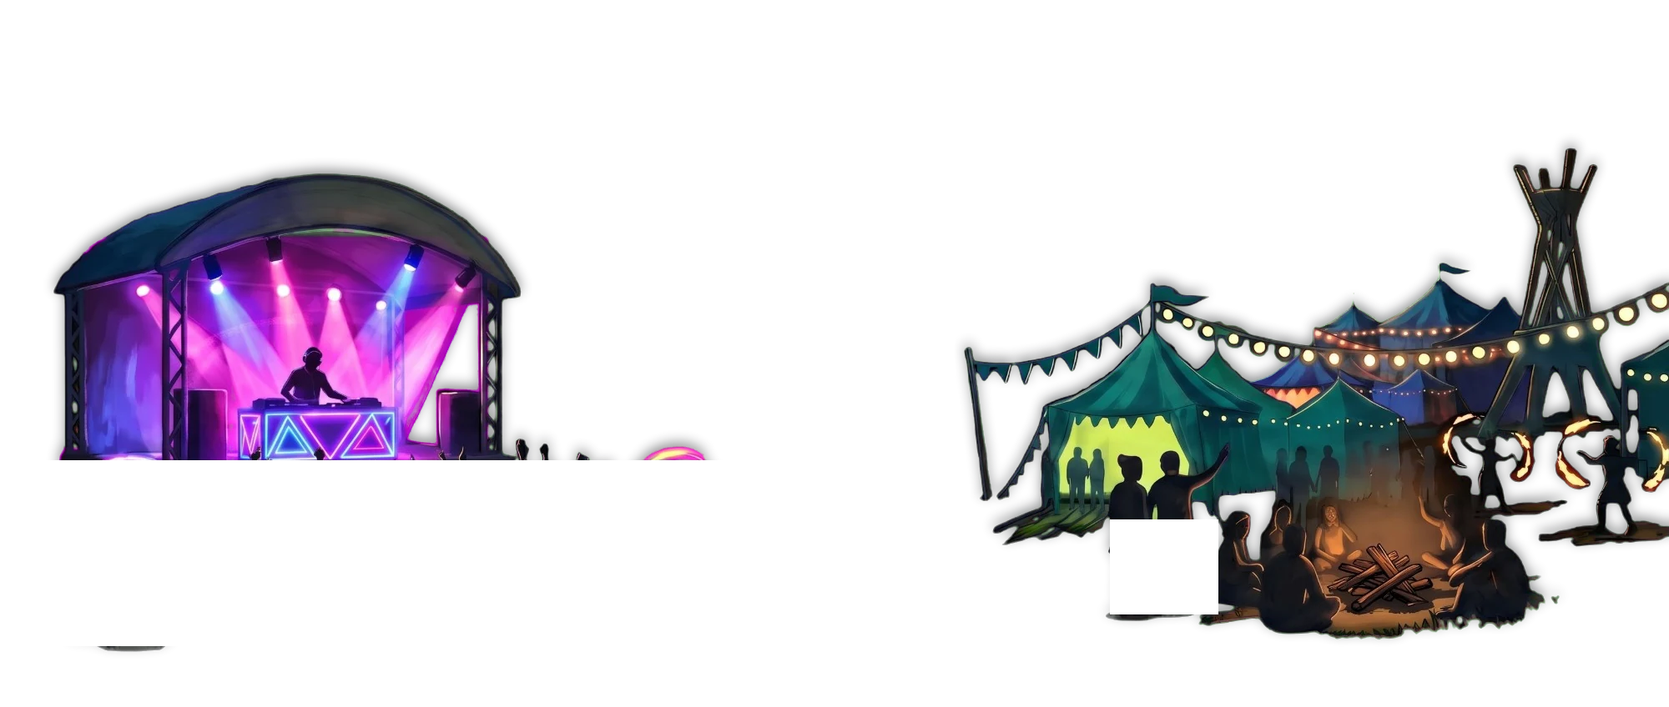
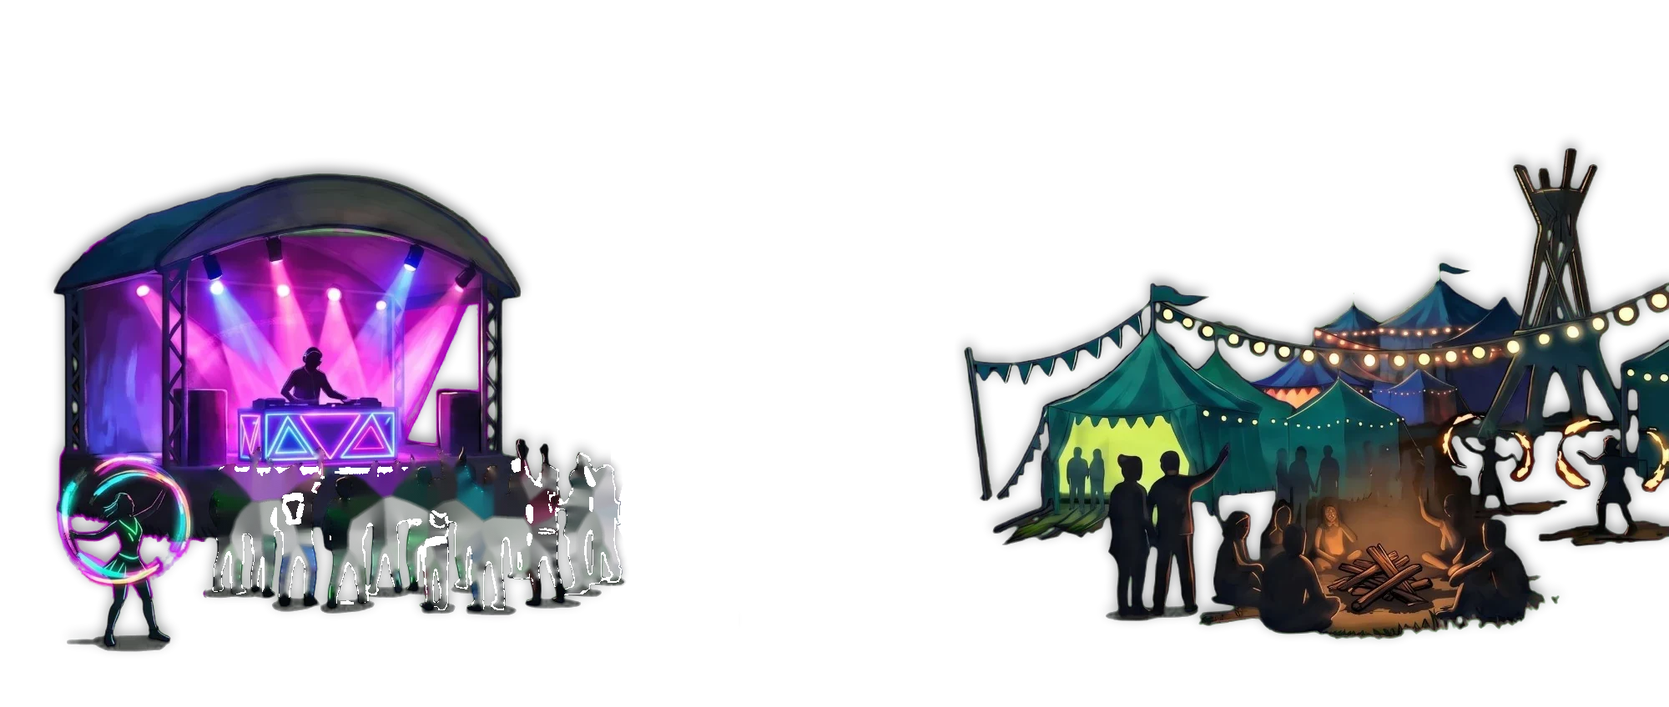
feat(bloomscroll): whole-figure crowd hop, soft stage lights, dancer out
- The dancers in front of the stage hop as whole figures from a figure
  sheet instead of stretched columns; at rest the painting is unchanged.
- The painted light-spinner (wide) and hoop girl (phone), their light and
  the light-hoop sparks are gone; the SVG dancer is removed until the
  painted one is approved.
- Stage lights are drawn on their own canvas with faded edges, and the
  LED panel pulse uses the painted panel itself, so no flash shows a box.
- Image URLs carry an art version, so caches can't mix old and new.
- Phones start the walk-in on the first scroll; reduced motion also
  stills the Ferris wheel.

Changed region(s): [[0.031, 0.6132, 0.434, 0.9198], [0.651, 0.7358, 0.744, 0.8892]]

diff --git a/components/feed/BloomscrollScene.js b/components/feed/BloomscrollScene.js
@@ -17,15 +17,17 @@ import { useEffect, useRef } from "react"
 // Every scene image is named here (list: docs/bloomscroll-assets.md). Layers are sized by each painting's shape, never its pixel size,
 // so a sharper file of the same shape replaces one with no other change.
 const IMG = "/images/bloomscroll/"
+// Bump when any scene image is replaced, so no browser mixes a cached old picture with new code
+const ART_V = "v=3"
 const MOON = "moon.webp"
 const WIDE_ART = {
   sky: "sky.webp", far: "far-cut.webp", soft: "far-cut-blur.webp", clouds: "clouds.webp",
-  fest: "festival-concert.webp", lights: "glow-lights-concert.webp", crowd: "crowd-concert.webp",
+  fest: "festival-concert.webp", lights: "glow-lights-concert.webp", figures: "crowd-concert-figures.webp",
   near: "near.webp", tallL: "trees-tall-left.webp", tallR: "trees-tall-right.webp", flowers: "near-flowers.webp",
 }
 const PHONE_ART = {
   sky: "p-sky.webp", far: "p-far-cut.webp", soft: "p-far-cut-blur.webp", clouds: "p-clouds.webp",
-  fest: "p-festival4c.webp", lights: "p-glow-lights4.webp", crowd: "p-crowd4.webp", flowers: "near-flowers.webp",
+  fest: "p-festival4c.webp", lights: "p-glow-lights4.webp", figures: "p-crowd4-figures.webp", flowers: "near-flowers.webp",
 }
 const FAR_LAG = 0.55
 const WALK_ZOOM = 0.18
@@ -37,16 +39,17 @@ const BEAT = 60000 / 124
 const CONCERT_COLS = [[98, 168, 172], [206, 255, 29], [255, 79, 216], [138, 92, 255], [255, 238, 205]]
 
 // Where the lights, fires, hoops, wheel and crowd sit in each concert painting, as fractions of its width (u) and height (v).
-// crowd: [u0, u1, v0, v1, bounce height]. rig: the stage lighting, with size and beam scaled to each painting's stage.
+// figures: the dancers who hop, each cut out whole (scripts/crowd_figures.py): [u, v, w, h] in the painting, then [x, w, h] in
+// their sheet, all as fractions; hop: how high, as a fraction of the painting's height. rig: the stage lighting, with size and
+// beam scaled to each painting's stage.
 const LIFE = {
   phone: {
     bulbs: [[0.91,0.5197],[0.9214,0.5862],[0.8292,0.5878],[0.9383,0.5855],[0.8187,0.5894],[0.8436,0.5895],[0.8467,0.5886],[0.9022,0.5897],[0.7444,0.5912],[0.8833,0.5903],[0.7796,0.592],[0.8615,0.5918],[0.8822,0.5929],[0.7601,0.5962],[0.7956,0.5929],[0.7768,0.603],[0.7963,0.6087],[0.9107,0.6116],[0.817,0.6137],[0.9975,0.6111],[0.9277,0.6151],[0.9641,0.6138],[0.9831,0.6141],[0.8381,0.6171],[0.9456,0.6155],[0.9972,0.6153],[0.9642,0.6172],[0.9778,0.6192],[0.8558,0.6184],[0.8778,0.6201],[0.9462,0.6188],[0.8573,0.6217],[0.8799,0.6233],[0.9516,0.6225],[0.9066,0.6237],[0.9299,0.6239],[0.8661,0.6495],[0.7759,0.6583],[0.7901,0.6625],[0.803,0.6643],[0.816,0.6654],[0.7046,0.6677],[0.9172,0.6679],[0.6911,0.6701],[0.6937,0.6741],[0.7078,0.6735],[0.7056,0.6822],[0.6846,0.6862],[0.7022,0.693],[0.6956,0.7041],[0.6816,0.7049],[0.865,0.7117],[0.9375,0.7163],[0.8549,0.7206],[0.9031,0.7231],[0.9862,0.7213],[0.8551,0.728],[0.9925,0.7309],[0.9267,0.7292],[0.907,0.7346],[0.9272,0.7328],[0.8593,0.7366],[0.9317,0.7399],[0.9857,0.7461],[0.935,0.7466]],
     fires: [[0.808, 0.805, 0.05, "bonfire"], [0.928, 0.355, 0.018, "torch"]],
     wheel: [0.816, 0.493, 0.094],
     hoops: [[0.879, 0.727, 0.019], [0.959, 0.727, 0.019]],
-    lightHoops: [[0.058, 0.648, 0.05], [0.471, 0.648, 0.05]],
-    crowd: [[0.0, 0.555, 0.606, 0.79, 0.007], [0.625, 0.715, 0.725, 0.845, 0.004]],
-    wave: 1,
+    figures: [[0.06778,0.64996,0.06222,0.08147,0.0,0.13827,0.73389],[0.11444,0.65891,0.05,0.10385,0.14321,0.11111,0.93549],[0.16111,0.65891,0.05111,0.10922,0.25926,0.11358,0.98386],[0.22,0.66249,0.04444,0.10833,0.37778,0.09876,0.97584],[0.24444,0.66697,0.05444,0.11101,0.48148,0.12098,0.99999],[0.28333,0.66697,0.04889,0.09042,0.60741,0.10864,0.81451],[0.33444,0.67413,0.05111,0.09758,0.72099,0.11358,0.87901],[0.38333,0.65443,0.07,0.09848,0.83951,0.15556,0.88711]],
+    hop: 0.007,
     rig: {
       heads: [[0.138, 0.49], [0.182, 0.488], [0.226, 0.488], [0.284, 0.49]], wall: [0.045, 0.47, 0.335, 0.6], floor: 0.606, panel: [0.155, 0.271, 0.573, 0.605],
       clip: [0.0, 0.44, 0.52, 0.72], strip: [0.045, 0.0152], size: 1, beam: 0.2,
@@ -58,9 +61,8 @@ const LIFE = {
     fires: [[0.8315, 0.795, 0.024, "bonfire"], [0.937, 0.258, 0.014, "torch"]],
     wheel: [0.8264, 0.475, 0.0455],
     hoops: [[0.8795, 0.621, 0.011], [0.9175, 0.643, 0.011], [0.948, 0.655, 0.011], [0.9945, 0.646, 0.011]],
-    lightHoops: [[0.075, 0.739, 0.0375], [0.401, 0.712, 0.03]],
-    crowd: [[0.0, 0.46, 0.651, 0.915, 0.0081], [0.665, 0.73, 0.735, 0.87, 0.005]],
-    wave: 2,
+    figures: [[0.127,0.63679,0.0295,0.20401,0.0,0.08638,0.96648],[0.148,0.64976,0.0175,0.1875,0.08931,0.05124,0.88827],[0.1605,0.63443,0.0345,0.21108,0.14348,0.10102,0.99998],[0.1965,0.70519,0.027,0.14976,0.24744,0.07906,0.70948],[0.2005,0.6533,0.0475,0.18868,0.32943,0.13909,0.89386],[0.2435,0.64976,0.014,0.17335,0.47145,0.041,0.82123],[0.2515,0.67689,0.02,0.18632,0.51537,0.05857,0.88268],[0.263,0.63915,0.024,0.19458,0.57687,0.07028,0.92181],[0.2825,0.66038,0.0235,0.20283,0.65007,0.06881,0.96089],[0.298,0.64741,0.022,0.17217,0.72182,0.06442,0.81564],[0.3125,0.65566,0.024,0.17689,0.78917,0.07028,0.838],[0.3325,0.64033,0.0245,0.20165,0.86237,0.07174,0.9553],[0.352,0.65684,0.0205,0.16863,0.93704,0.06003,0.79887]],
+    hop: 0.0081,
     rig: {
       heads: [[0.1275, 0.381], [0.1645, 0.355], [0.2475, 0.363], [0.2785, 0.394]], wall: [0.0525, 0.341, 0.289, 0.651], floor: 0.651, panel: [0.1425, 0.237, 0.578, 0.642],
       clip: [0.0, 0.3, 0.46, 0.92], strip: [0.055, 0.0123], size: 0.81, beam: 0.45,
@@ -135,8 +137,8 @@ export default function BloomscrollScene({ subtitle, children }) {
     let moonRest = 0, moonSunk = 0, nearHinge = 0, phoneMode = false, sceneTop = 0, stickTop = 0
     // per-side shift of the festival halves inside their box (tablet slides them in, phones set them down), as fractions of the box
     let lifeShift = { lx: 0, ly: 0, rx: 0, ry: 0 }
-    const setSrc = (img, file) => { const src = IMG + file; if (img.getAttribute("src") !== src) img.setAttribute("src", src) }
-    const crowdImg = new Image()
+    const setSrc = (img, file) => { const src = `${IMG}${file}?${ART_V}`; if (img.getAttribute("src") !== src) img.setAttribute("src", src) }
+    const figureSheet = new Image()
     const life = () => (phoneMode ? LIFE.phone : LIFE.wide)
 
     // Phones: the portrait far painting fills the 4:5 scene, the concert painting stands on its meadow, only the flowers come forward
@@ -145,7 +147,7 @@ export default function BloomscrollScene({ subtitle, children }) {
       setSrc(farImg, PHONE_ART.far)
       setSrc(farSoft, PHONE_ART.soft)
       setSrc(clouds.firstElementChild, PHONE_ART.clouds)
-      setSrc(crowdImg, PHONE_ART.crowd)
+      setSrc(figureSheet, PHONE_ART.figures)
       const sk = sky.style
       sk.objectFit = sk.objectPosition = sk.backgroundColor = ""
       sk.left = sk.top = "0px"
@@ -205,7 +207,7 @@ export default function BloomscrollScene({ subtitle, children }) {
       setSrc(farImg, WIDE_ART.far)
       setSrc(farSoft, WIDE_ART.soft)
       setSrc(clouds.firstElementChild, WIDE_ART.clouds)
-      setSrc(crowdImg, WIDE_ART.crowd)
+      setSrc(figureSheet, WIDE_ART.figures)
       nearLeft.style.display = nearRight.style.display = ""
       festImgs.forEach((img) => { setSrc(img, WIDE_ART[img.dataset.fest]); img.style.position = img.style.left = img.style.top = img.style.width = img.style.height = "" })
       if (wide) {
@@ -338,91 +340,116 @@ export default function BloomscrollScene({ subtitle, children }) {
       if (crowdCanvas.width !== cw || crowdCanvas.height !== ch) { crowdCanvas.width = cw; crowdCanvas.height = ch }
       const c = crowdCtx
       c.clearRect(0, 0, cw, ch)
+      if (!figureSheet.complete || !figureSheet.naturalWidth) return
       const L = life()
-      const moving = !reduced.matches
-      const phase = moving ? (t / BEAT) % 1 : 0
-      // Each thin column of the painted crowd stretches up in a rolling wave; feet stay planted
-      if (!crowdImg.complete || !crowdImg.naturalWidth) return
-      const iw = crowdImg.naturalWidth, ih = crowdImg.naturalHeight
-      const strip = Math.max(3, Math.round(4 * dpr))
-      L.crowd.forEach(([u0, u1, v0, v1, bounce], gi) => {
-        const [ox, oy] = gi ? [lifeShift.rx, lifeShift.ry] : [lifeShift.lx, lifeShift.ly]
-        const x0 = (u0 + ox) * cw, x1 = (u1 + ox) * cw, y0 = (v0 + oy) * ch, y1 = (v1 + oy) * ch, ym = y0 + (y1 - y0) * 0.42
-        const sy0 = v0 * ih, sy1 = v1 * ih, sym = sy0 + (sy1 - sy0) * 0.42
-        const amp = bounce * ch, k = L.wave
-        for (let x = x0; x < x1; x += strip) {
-          const u = x / cw - ox
-          const wave = moving ? Math.pow(Math.max(0, Math.sin(phase * Math.PI * 2 + u * 26 * k + Math.sin(u * 61 * k) * 1.6)), 2) : 0
-          const d = amp * wave * (0.55 + 0.45 * Math.sin(u * 37 * k + 1.3))
-          const sx = u * iw, sw = (strip / cw) * iw
-          c.drawImage(crowdImg, sx, sy0, sw, sym - sy0, x, y0, strip, ym - d - y0)
-          c.drawImage(crowdImg, sx, sym, sw, sy1 - sym, x, ym - d, strip, y1 - ym + d)
-        }
+      const iw = figureSheet.naturalWidth, ih = figureSheet.naturalHeight
+      const beat = reduced.matches ? -1 : t / BEAT
+      // Each dancer hops whole, never stretched: a quick hop on the beat, rolling across the crowd from left to right
+      L.figures.forEach(([u, v, w, h, sx, sw, sh], i) => {
+        const right = u > 0.5
+        const x = (u + (right ? lifeShift.rx : lifeShift.lx)) * cw, y = (v + (right ? lifeShift.ry : lifeShift.ly)) * ch
+        const at = beat < 0 ? 1 : (beat - u * 2.2 + (i % 3) * 0.13) % 1
+        const lift = at < 0.42 ? Math.sin((at / 0.42) * Math.PI) * (0.75 + 0.25 * ((i * 7) % 4) / 3) : 0
+        c.drawImage(figureSheet, sx * iw, 0, sw * iw, sh * ih, x, y - lift * L.hop * ch, w * cw, h * ch)
       })
     }
 
-    function drawConcertLights(c, at, cw, ch, t, sprite) {
+    // The stage lights are drawn on their own small canvas whose edges are then faded out, so no flash or beam ever shows
+    // a straight edge; the wash and the strobe are soft ovals that fade to nothing inside their area
+    const stageCv = document.createElement("canvas"), stageCtx = stageCv.getContext("2d")
+    const panelCv = document.createElement("canvas"), panelCtx = panelCv.getContext("2d")
+    const festLeft = festImgs.find((img) => img.dataset.fest === "fest" && img.dataset.half === "l")
+    const softOval = (g, x0, y0, x1, y1, rgba, a) => {
+      const cx = (x0 + x1) / 2, cy = (y0 + y1) / 2, rx = (x1 - x0) / 2, ry = (y1 - y0) / 2
+      g.save()
+      g.translate(cx, cy); g.scale(1, ry / rx)
+      const grad = g.createRadialGradient(0, 0, 0, 0, 0, rx)
+      grad.addColorStop(0, `rgba(${rgba},${a})`); grad.addColorStop(1, `rgba(${rgba},0)`)
+      g.fillStyle = grad
+      g.fillRect(-rx, -rx, rx * 2, rx * 2)
+      g.restore()
+    }
+    function drawConcertLights(c, at, cw, ch, t, appear) {
       const beatPhase = (t / BEAT) % 1, beatN = Math.floor(t / BEAT)
       const pulse = Math.pow(1 - beatPhase, 3)
       const [r, g, b] = concertColour(t, 0), [r2, g2, b2] = concertColour(t, 0.5)
       const L = life(), R = L.rig, z = R.size
-      c.save()
       // Everything stays inside the stage and the space over the front rows
       const [lx, ty] = at(R.clip[0], R.clip[1]), [rx, by] = at(R.clip[2], R.clip[3])
-      c.beginPath(); c.rect(lx, ty, rx - lx, by - ty); c.clip()
+      const bw = Math.ceil(rx - lx), bhh = Math.ceil(by - ty)
+      if (stageCv.width !== bw || stageCv.height !== bhh) { stageCv.width = bw; stageCv.height = bhh }
+      const s = stageCtx
+      s.setTransform(1, 0, 0, 1, 0, 0)
+      s.globalCompositeOperation = "source-over"
+      s.clearRect(0, 0, bw, bhh)
+      s.setTransform(1, 0, 0, 1, -lx, -ty)
+      s.globalCompositeOperation = "lighter"
+      const sprite = (x, y, size, alpha) => { s.globalAlpha = Math.max(0, Math.min(1, alpha)) * appear; s.drawImage(warmSprite, x - size / 2, y - size / 2, size, size) }
       // Colour wash on the back wall of the stage
       const [sx0, sy0] = at(R.wall[0], R.wall[1]), [sx1, sy1] = at(R.wall[2], R.wall[3])
-      const wash = c.createRadialGradient((sx0 + sx1) / 2, sy1, 0, (sx0 + sx1) / 2, sy1, (sx1 - sx0) * 0.75)
-      wash.addColorStop(0, `rgba(${r},${g},${b},${0.55 + 0.35 * pulse})`)
-      wash.addColorStop(1, `rgba(${r},${g},${b},0)`)
-      c.globalAlpha = 1; c.fillStyle = wash; c.fillRect(sx0, sy0, sx1 - sx0, sy1 - sy0)
+      s.globalAlpha = 1
+      softOval(s, sx0, sy0, sx1, sy1 + (sy1 - sy0) * 0.4, `${r},${g},${b}`, 0.55 + 0.35 * pulse)
       // Moving-head beams from the truss, sweeping across the stage and the front rows
       R.heads.map(([u, v], i) => [u, v, i * 1.3]).forEach(([u, v, ph], i) => {
         const [x, y] = at(u, v)
         const ang = Math.PI / 2 + Math.sin(t / 1400 + ph) * 0.55
         const len = ch * R.beam, spread = 0.12
         const col = i % 2 ? [r2, g2, b2] : [r, g, b]
-        const gr = c.createLinearGradient(x, y, x + Math.cos(ang) * len, y + Math.sin(ang) * len)
+        const gr = s.createLinearGradient(x, y, x + Math.cos(ang) * len, y + Math.sin(ang) * len)
         gr.addColorStop(0, `rgba(${col},0.55)`); gr.addColorStop(1, `rgba(${col},0)`)
-        c.fillStyle = gr
-        c.beginPath(); c.moveTo(x, y)
-        c.lineTo(x + Math.cos(ang - spread) * len, y + Math.sin(ang - spread) * len)
-        c.lineTo(x + Math.cos(ang + spread) * len, y + Math.sin(ang + spread) * len)
-        c.closePath(); c.fill()
+        s.globalAlpha = 1
+        s.fillStyle = gr
+        s.beginPath(); s.moveTo(x, y)
+        s.lineTo(x + Math.cos(ang - spread) * len, y + Math.sin(ang - spread) * len)
+        s.lineTo(x + Math.cos(ang + spread) * len, y + Math.sin(ang + spread) * len)
+        s.closePath(); s.fill()
         sprite(x, y, cw * 0.035 * z, 0.9)
       })
       // LED strip along the front of the stage, chasing in colour
+      s.globalAlpha = 1
       for (let k = 0; k < 20; k++) {
         const [x, y] = at(R.strip[0] + k * R.strip[1], R.floor)
         const on = Math.pow(0.5 + 0.5 * Math.sin(t / 140 - k * 0.8), 3)
         const [cr, cg, cb] = k % 2 ? [r, g, b] : [r2, g2, b2]
-        c.fillStyle = `rgba(${cr},${cg},${cb},${0.35 + 0.65 * on})`
-        c.fillRect(x - cw * 0.004 * z, y - ch * 0.0015 * z, cw * 0.008 * z, ch * 0.003 * z)
+        s.fillStyle = `rgba(${cr},${cg},${cb},${0.35 + 0.65 * on})`
+        s.fillRect(x - cw * 0.004 * z, y - ch * 0.0015 * z, cw * 0.008 * z, ch * 0.003 * z)
       }
-      // The painted LED triangle panel takes the concert colour, pulsing on the beat
+      // The painted LED triangle panel lights up in the concert colour on the beat: the painting's own panel, tinted and
+      // added as light, so only its LED lines glow and never a box
       const [bx0, by0] = at(R.panel[0], R.panel[2]), [bx1, by1] = at(R.panel[1], R.panel[3])
-      const panel = c.createLinearGradient(bx0, 0, bx1, 0)
-      panel.addColorStop(0, `rgba(${r},${g},${b},0.75)`); panel.addColorStop(1, `rgba(${r2},${g2},${b2},0.75)`)
-      c.fillStyle = panel; c.globalAlpha = 0.35 + 0.55 * pulse
-      c.fillRect(bx0, by0, bx1 - bx0, by1 - by0)
-      c.globalAlpha = 1
-      // The two light hoops: bright sparks running round each hoop
-      L.lightHoops.forEach(([u, v, rr], hi) => {
-        const [x, y] = at(u, v)
-        for (let k = 0; k < 6; k++) {
-          const ang = t / 220 * (hi ? -1 : 1) + (k * Math.PI) / 3
-          const col = k % 2 ? [r, g, b] : [r2, g2, b2]
-          c.fillStyle = `rgba(${col},0.9)`
-          c.beginPath(); c.arc(x + Math.cos(ang) * rr * cw, y + Math.sin(ang) * rr * cw * 0.3, cw * 0.005 * z, 0, Math.PI * 2); c.fill()
-        }
-        sprite(x, y, rr * cw * 2.2, 0.25 + 0.25 * pulse)
-      })
-      // Strobe pop on every 16th beat
-      if (beatN % 16 === 0 && beatPhase < 0.25) {
-        c.fillStyle = `rgba(255,255,255,${0.5 * (1 - beatPhase / 0.25)})`
-        c.fillRect(sx0, sy0, sx1 - sx0, sy1 - sy0)
+      const pw = Math.ceil(bx1 - bx0), ph = Math.ceil(by1 - by0)
+      if (festLeft.complete && festLeft.naturalWidth && pw > 0 && ph > 0) {
+        if (panelCv.width !== pw || panelCv.height !== ph) { panelCv.width = pw; panelCv.height = ph }
+        const q = panelCtx, nw = festLeft.naturalWidth, nh = festLeft.naturalHeight
+        const paint = () => q.drawImage(festLeft, R.panel[0] * nw, R.panel[2] * nh, (R.panel[1] - R.panel[0]) * nw, (R.panel[3] - R.panel[2]) * nh, 0, 0, pw, ph)
+        q.globalCompositeOperation = "copy"
+        paint()
+        q.globalCompositeOperation = "multiply"
+        const tint = q.createLinearGradient(0, 0, pw, 0)
+        tint.addColorStop(0, `rgb(${r},${g},${b})`); tint.addColorStop(1, `rgb(${r2},${g2},${b2})`)
+        q.fillStyle = tint
+        q.fillRect(0, 0, pw, ph)
+        q.globalCompositeOperation = "destination-in"
+        paint()
+        s.globalAlpha = (0.35 + 0.55 * pulse) * appear
+        s.drawImage(panelCv, bx0, by0)
+        s.globalAlpha = 1
       }
-      c.restore()
+      // Strobe pop on every 16th beat: a soft burst of white over the stage
+      if (beatN % 16 === 0 && beatPhase < 0.25) softOval(s, sx0, sy0, sx1, sy1 + (sy1 - sy0) * 0.4, "255,255,255", 0.5 * (1 - beatPhase / 0.25))
+      // Fade the canvas out towards its edges, then lay it over the scene
+      s.setTransform(1, 0, 0, 1, 0, 0)
+      s.globalCompositeOperation = "destination-in"
+      s.globalAlpha = 1
+      for (const [x0, y0, x1, y1] of [[0, 0, bw, 0], [0, 0, 0, bhh]]) {
+        const fade = s.createLinearGradient(x0, y0, x1, y1)
+        fade.addColorStop(0, "rgba(0,0,0,0)"); fade.addColorStop(0.15, "rgba(0,0,0,1)")
+        fade.addColorStop(0.85, "rgba(0,0,0,1)"); fade.addColorStop(1, "rgba(0,0,0,0)")
+        s.fillStyle = fade
+        s.fillRect(0, 0, bw, bhh)
+      }
+      c.globalAlpha = 1
+      c.drawImage(stageCv, lx, ty)
     }
 
     // Ferris wheel: painted-style rim, spokes and swinging gondolas, turning slowly behind the tents
@@ -542,7 +569,7 @@ export default function BloomscrollScene({ subtitle, children }) {
           sprite(x + Math.cos(ang) * r * unit, y + Math.sin(ang) * r * unit * 1.1, unit * 0.018 * (r / 0.019), 0.9)
         }
       })
-      drawConcertLights(c, at, cw, ch, t, sprite)
+      drawConcertLights(c, at, cw, ch, t, appear)
       c.globalCompositeOperation = "source-over"
       c.globalAlpha = 1
     }
@@ -594,9 +621,10 @@ export default function BloomscrollScene({ subtitle, children }) {
     const angle = (key) => spring(performance.now() - unfoldStart - pieces[key][0], pieces[key][1])
 
     // Motion chases scroll and pointer with frame-rate-independent easing.
-    // Scroll counts from the moment the scene sticks under the site header (its height can change as the notice bar scrolls away).
+    // Desktop and tablet: scroll counts from the moment the scene sticks under the site header (its height can change as the
+    // notice bar scrolls away). Phones have no hold: the scene moves from the first pixel of scroll, so that is where it counts from.
     const readStick = () => { stickTop = parseFloat(getComputedStyle(scene).top) || 0 }
-    const scrollPos = () => Math.max(0, window.scrollY - (sceneTop - stickTop))
+    const scrollPos = () => Math.max(0, window.scrollY - (phoneMode ? 0 : sceneTop - stickTop))
     let sy = 0, px = 0, py = 0, tx = 0, ty = 0, last = performance.now()
     const onPointerMove = (e) => {
       if (!finePointer.matches) return
@@ -665,7 +693,7 @@ export default function BloomscrollScene({ subtitle, children }) {
 
       drawFlies(now, dt, y, mx, smoothstep(1700, 2500, since))
       drawLife(now, dt, smoothstep(1500, 2100, since))
-      drawWheel(now, 1)
+      drawWheel(still ? 0 : now, 1)
       drawCrowd(now)
 
       if (visible) rafId = requestAnimationFrame(frame)
@@ -704,7 +732,7 @@ export default function BloomscrollScene({ subtitle, children }) {
         <section className="tag-bs" data-part="scene">
           <div className="tag-bs__book" data-part="book" aria-hidden="true">
             <img className="tag-bs__layer tag-bs__sky" data-part="sky" alt="" width={1584} height={672} />
-            <div className="tag-bs__moon" data-part="moon"><img src={IMG + MOON} alt="" width={320} height={320} /></div>
+            <div className="tag-bs__moon" data-part="moon"><img src={`${IMG}${MOON}?${ART_V}`} alt="" width={320} height={320} /></div>
             <div className="tag-bs__layer tag-bs__fit tag-bs__clouds" data-part="clouds"><img alt="" /></div>
             <div className="tag-bs__ground" data-part="ground" />
             <div className="tag-bs__layer tag-bs__fit tag-bs__backdrop" data-part="backdrop">

diff --git a/docs/bloomscroll-assets.md b/docs/bloomscroll-assets.md
@@ -6,7 +6,7 @@ Every image in the Bloomscroll scene, which ones are worth upscaling, and how to
 
 - The component names every image in one place: `WIDE_ART`, `PHONE_ART` and `MOON` at the top of `components/feed/BloomscrollScene.js`.
 - Each layer is sized by its painting's **shape** (aspect ratio), never by its pixel count.
-- Every light, flame, hoop, wheel and crowd strip is placed as a fraction of its painting's width and height.
+- Every light, flame, hoop, wheel and crowd figure is placed as a fraction of its painting's width and height.
 
 So a file with the **same shape** and more pixels lands in exactly the same place. The one rule: **never crop, pad or change the shape.**
 
@@ -22,18 +22,18 @@ All files are in `public/images/bloomscroll/`.
 | `far-cut.webp` | Far painting: trees, hills, path (sky cut out) | desktop, tablet | 1584×672 | 33:14 | transparent sky | **Yes (01)** |
 | `p-far-cut.webp` | Far painting | phone | 900×1117 | 0.806 | transparent sky | **Yes (02)** |
 | `far-cut-blur.webp` / `p-far-cut-blur.webp` | Soft-focus copy of the far painting | wide / phone | as above | | transparent | No: rebuilt from 01/02 |
-| `festival-concert.webp` | Wide concert festival, crowd lifted out | desktop, tablet | 2000×848 | 33:14 | transparent | **Yes (03)**, then re-cut |
-| `crowd-concert.webp` | The wide crowd strip that bounces | desktop, tablet | 2000×848 | 33:14 | transparent | No: rebuilt from 03 |
+| `festival-concert.webp` | Wide concert festival, hopping figures lifted out (filled in behind them) | desktop, tablet | 2000×848 | 33:14 | transparent | **Yes (03)**, then re-cut |
+| `crowd-concert-figures.webp` | The 13 wide dancers who hop, packed side by side | desktop, tablet | 683×179 | sheet | transparent | No: rebuilt from 03 |
 | `glow-lights-concert.webp` | Soft light glow (screen blend) | desktop, tablet | 1000×424 | 33:14 | opaque on black | No: rebuilt from 03 |
-| `p-festival4c.webp` | Phone concert festival, crowd lifted out | phone | 900×1117 | 0.806 | transparent | **Yes (04)**, then re-cut |
-| `p-crowd4.webp` | Phone crowd strip | phone | 900×1117 | 0.806 | transparent | No: rebuilt from 04 |
+| `p-festival4c.webp` | Phone concert festival, hopping figures lifted out (filled in behind them) | phone | 900×1117 | 0.806 | transparent | **Yes (04)**, then re-cut |
+| `p-crowd4-figures.webp` | The 8 phone dancers who hop, packed side by side | phone | 405×124 | sheet | transparent | No: rebuilt from 04 |
 | `p-glow-lights4.webp` | Phone light glow | phone | 450×558 | 0.806 | opaque on black | No: rebuilt from 04 |
 | `near.webp` | Near frame: trees, ferns, roses | desktop | 2112×896 | 33:14 | transparent centre | **Yes (05)** |
 | `near-flowers.webp` | Rose bushes | phone, tablet | 2112×896 | 33:14 | transparent | **Yes (06)** |
 | `trees-tall-left.webp` / `trees-tall-right.webp` | Tall edge trees | tablet | 464×3333 | | transparent | No: already sharp at tablet size |
 | `moon.webp` | Moon | all | 320×320 | 1:1 | transparent | No: shown at 150 px at most |
 
-The grain is generated in code, and the wheel, fires, beams, LED strip, hoop sparks, fireflies and embers are all drawn by code. None of them need images.
+The grain is generated in code, and the wheel, fires, beams, LED strip, fire-hoop sparks, fireflies and embers are all drawn by code. None of them need images.
 
 ## Upscaling: what Terry does
 
@@ -72,10 +72,14 @@ The 4× sizes to expect:
    - `03`: `docs/design/bloomscroll/wide-concert-input-2026-10-25/scripts/wide_concert_cut.py`.
    - `04`: the phone concert cut in `approved-v2-2026-10-25/scripts/`. The blur radii and dilation sizes in that cut must be scaled to the new resolution.
    - Check every cut on bright red and on the real sky for halos.
-3. Rebuild the derived files (soft-focus far, crowd strips, light glows) from the sharper masters, with blur radii scaled by the same factor.
+3. Rebuild the derived files (soft-focus far, crowd figure sheets, light glows) from the sharper masters, with blur radii scaled by the same factor.
+   - Wide: `wide_concert_cut.py`, then `crowd_figures.py wide` (it splits the figures out of the cut and rewrites the festival and glow).
+   - Phone: restore the committed `p-festival4c`, `p-crowd4` and `p-glow-lights4` first (`git checkout`), then `crowd_figures.py phone`.
+   - Copy the new figure positions from `work/*-figures.json` into `LIFE.*.figures`, as `[x, y, w, h, sx, w·W/sheetW, h·H/sheetH]`.
 4. Export served sizes as WebP: 1× and 2× for wide art (for example `far-cut.webp` at 1584 wide and `far-cut@2x.webp` at 3168), and 1× and 2× for phone art.
    - The component picks 2× on high-density screens.
    - Filenames stay stable, so no positions change.
+   - Bump `ART_V` in the component, so browsers fetch the new files.
 5. Re-run the fidelity comparison (`docs/design/bloomscroll/fidelity/`) against approved v2 and against the build before the swap. Expected result: no geometry drift, and pixel changes only where the art got sharper.
 6. Check page weight (phones must still load only phone art) and phone smoothness on a 6× CPU-throttled profile.
 7. Local commit. No push until the owner says go.

diff --git a/docs/bloomscroll-scene.md b/docs/bloomscroll-scene.md
@@ -54,12 +54,14 @@ The Bloomscroll page (`/feed`) opens with an animated festival scene: the visito
 | Unfold (spring `from·e^(−6.5t)·cos(8.5t)`) | back 0 ms / 34°, flaps 380 ms / 80°, flowers 540 ms / 86°, title 700 ms / 70° |
 | Lights | on `smoothstep(1500, 1950 ms)`, fire `smoothstep(1700, 2150 ms)`, flicker `0.86 + 0.08 sin(t/90) + 0.06 sin(t/37 + 1.3)`, shimmer `0.94 + 0.06 sin(t/700)` |
 | Fireflies | 18 far + 12 mid + 10 near (sizes 6, 11, 26 px); lags 0.55, 0.3, −0.45; phone: all in the scene, 2 faint in the air (30–50 % height, 40 % alpha), the rest at 58–92 % height, moving with the ground, front layer off; appear `smoothstep(1700, 2500 ms)` |
-| Festival life | appears `smoothstep(1500, 2100 ms)`; string-light twinkle; fire tongues and embers; fire-hoop sparks; cloud drift `sin(t/9000)·10 px` |
-| Turning wheel (phone now, wide when its art lands) | centre (0.816, 0.493), radius 0.094 W, one turn per `9000·2π` ms, 12 gondolas, 24 rim bulbs, behind the tents |
+| Festival life | appears `smoothstep(1500, 2100 ms)`; string-light twinkle; fire tongues and embers; fire-hoop sparks (the right-hand fire dancers); cloud drift `sin(t/9000)·10 px` |
+| Turning wheel (every screen) | centre (0.816, 0.493), radius 0.094 W, one turn per `9000·2π` ms, 12 gondolas, 24 rim bulbs, behind the tents |
 | Phone festival | portrait concert painting, split at **55.5 %**; left group set down **8 %**, right group **4 %** of the scene height |
-| Concert (every screen; wide pending its art) | **124 bpm**; colours teal (98, 168, 172), chartreuse (206, 255, 29), magenta (255, 79, 216), violet (138, 92, 255), warm white (255, 238, 205), changing every 8 beats; beams, LED strip, LED panel pulse, light-hoop sparks, strobe every 16 beats; crowd bounce in columns, left 0.7 %, right 0.4 % of the scene height |
+| Concert (every screen) | **124 bpm**; colours teal (98, 168, 172), chartreuse (206, 255, 29), magenta (255, 79, 216), violet (138, 92, 255), warm white (255, 238, 205), changing every 8 beats; beams, LED strip, LED panel pulse (the painted panel itself, tinted, so only its LED lines glow), strobe every 16 beats (a soft burst). The stage lights are drawn on their own canvas with faded edges, so no flash ever shows a box. |
+| Crowd hop (QA round 2, owner request) | the dancers in front of the stage are cut out whole (`scripts/crowd_figures.py`) and hop as solid figures: a quick hop on each beat, rolling across the crowd from left to right; height 0.81 % (wide) / 0.7 % (phone) of the painting. At rest the painting is exactly the original. The painted light-spinner (wide) and the right-hand hoop girl (phone) are out of the paintings, and the light-hoop sparks are gone. |
 | Bottom fade | desktop and tablet 14 % of the scene height; phone 30 % |
-| Reduced motion | everything still: moon up, lights on, no unfold, no bounce |
+| Reduced motion | everything still: moon up, lights on, no unfold, no hop, wheel still |
+| Walk-in on phones | counts from the first pixel of scroll (phones have no hold), so the scene moves straight away |
 
 ## Where it lives in tag-web
 
@@ -67,7 +69,7 @@ The Bloomscroll page (`/feed`) opens with an animated festival scene: the visito
 |---|---|
 | Scene (layers and engine) | `components/feed/BloomscrollScene.js` (client component; decorative, `aria-hidden`) |
 | Scene styles | `styles/pages/bloomscroll.css`, imported in `styles/globals.css` like `home.css` |
-| Images | `public/images/bloomscroll/` (WebP, plus AVIF where smaller). Phones only load phone images and desktops only wide ones: sources are set once the layout is known. |
+| Images | `public/images/bloomscroll/` (WebP, plus AVIF where smaller). Phones only load phone images and desktops only wide ones: sources are set once the layout is known. Every image URL carries `ART_V` (`?v=…`); bump it whenever an image is replaced, so no browser mixes a cached old picture with new code. |
 | Page | `pages/feed/index.js`: the scene at the top, the existing feed below. Latest and Trending, the composer, infinite scroll, the single-post view and post actions stay as they are. The old vine rails come off this page. |
 
 No API changes are needed. The scene only decorates the page.
